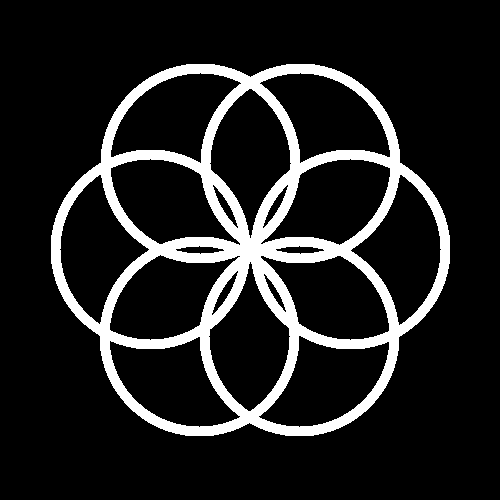
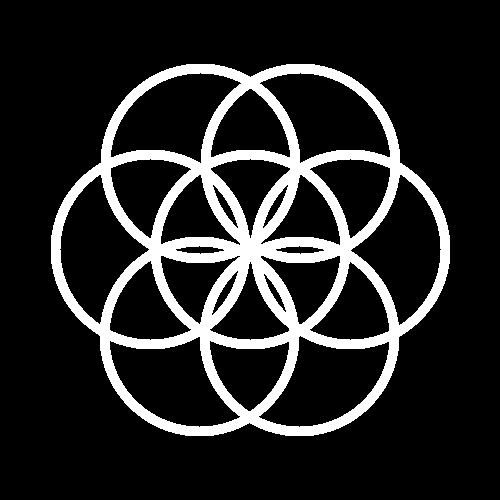
Nouvelles rosace+suite rapport

diff --git a/src/main.cpp b/src/main.cpp
@@ -235,11 +235,27 @@ void rosace(sil::Image& image)
                 {
                     noir.pixel(x,y) = glm::vec3{1, 1, 1};
                 }
-                
-                
+        
             }
-            
-                
+
+            for (int y = 0; y < image.height(); ++y)
+            {
+                for (int x = 0; x < image.width(); ++x)
+                {
+                    int dx = x - 250;
+                    int dy = y - 250;
+                    int rayon{100};
+                    int thickness{10};
+
+                    if (dx * dx + dy * dy < rayon * rayon
+                        && dx * dx + dy * dy > (rayon - thickness) * (rayon - thickness))
+                    {
+                        noir.pixel(x, y) = glm::vec3{1.f, 1.f, 1.f};
+                    }
+                }
+            }
+
+            image = noir;
         }
         
     }

diff --git a/rapport.md b/rapport.md
@@ -50,3 +50,8 @@
 
 ## 14. Rosace
 ![Logo rosace](imagesexport/ex14_rosace.png)
+
+## 15. Mosaïque
+![Logo mosaïque](imagesexport/ex14_mosaique.png)
+
+## 16. M
